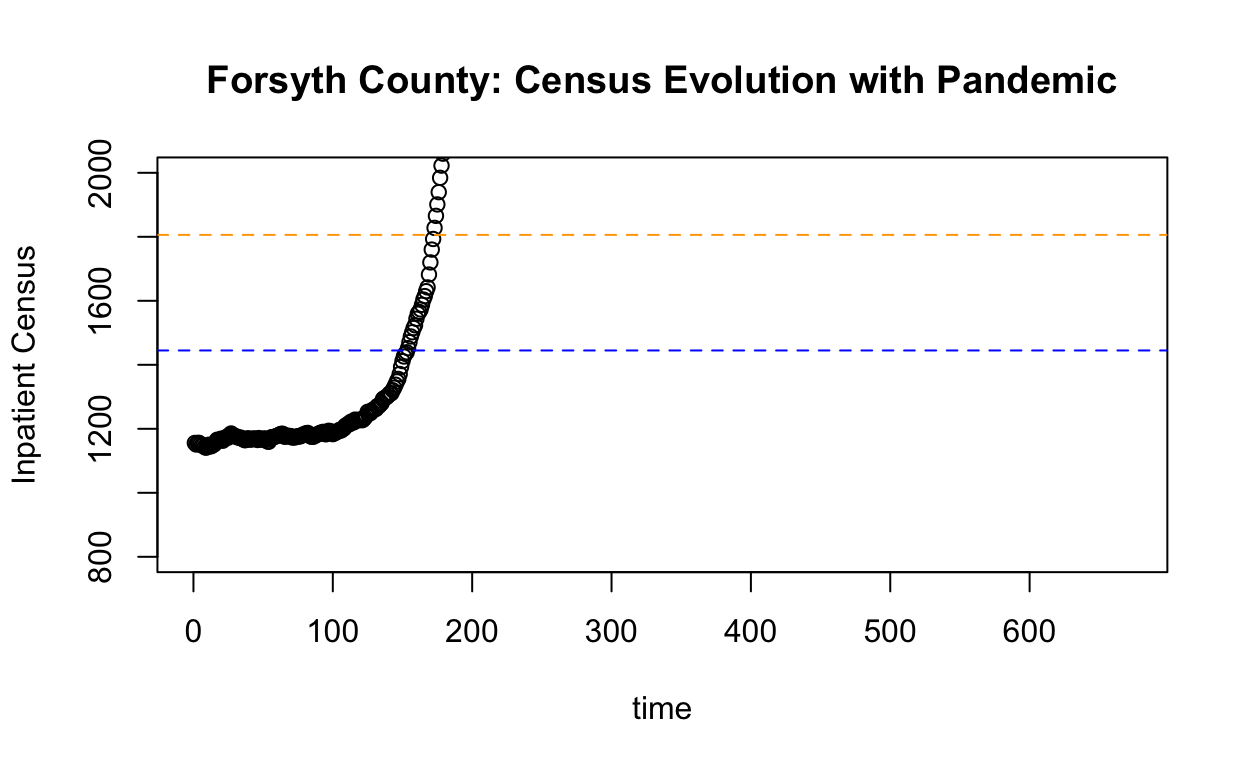
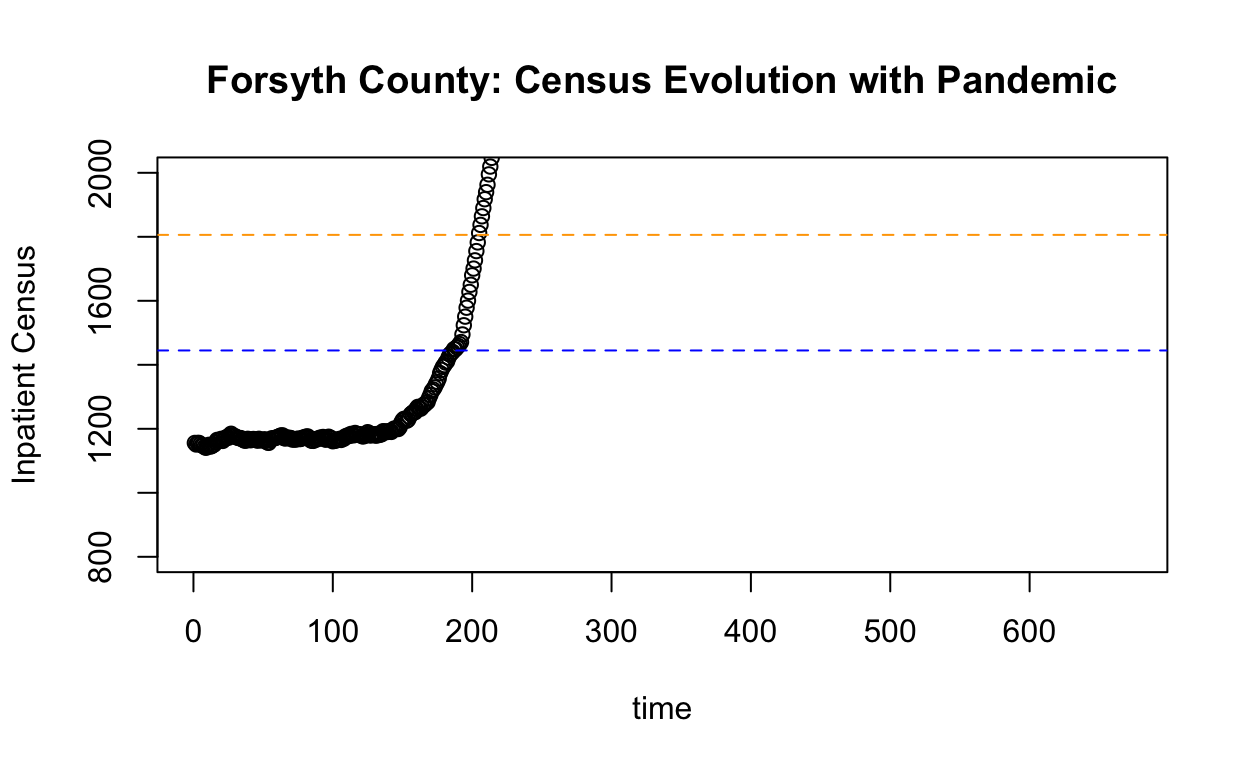
updated hospitilization rate

Changed region(s): [[0.2188, 0.1875, 0.4062, 0.5938]]

diff --git a/_posts/2020-03-13-flatten-the-curve/flatten-the-curve.html b/_posts/2020-03-13-flatten-the-curve/flatten-the-curve.html
@@ -1110,7 +1110,7 @@ Figure 3: Hospital Census No Pandemic
 <p>Now we can our above pandemic simulation. Let’s also assume that each patient stays for 7 days. This means that we admit patients for seven days before they are discharged.</p>
 <div class="layout-chunk" data-layout="l-body">
 <pre class="r"><code>
-hospitalization_rate &lt;- .2
+hospitalization_rate &lt;- .05
 covid_discharges &lt;- rep(lag(results$avg, 
                             n = 7, default = 0)/24, 
                         each = 24)*hospitalization_rate
@@ -1127,7 +1127,7 @@ for(i in 2:horizon_t){
 
 saturation &lt;- round(which(queue_pan&gt;n_beds)[1]/24)</code></pre>
 </div>
-<p>We can see very quickly that saturates the healthcare system (actually the number patients outnumbers the number of beds available by day 7).</p>
+<p>We can see very quickly that saturates the healthcare system (actually the number patients outnumbers the number of beds available by day 9).</p>
 <div class="layout-chunk" data-layout="l-body-outset">
 <pre class="r"><code>
 plot(queue_pan, ylim= c(800, 2000), 
@@ -1146,7 +1146,7 @@ Figure 4: Hospital Census With Uncontrolled Pandemic
 <p>Now here is where it is important to flatten the curve. If we can lower the reproductive rate through the normal pathways: hand washing, social distancing, etc, we can see we will still have an issue:</p>
 <div class="layout-chunk" data-layout="l-body">
 <pre class="r"><code>
-hospitalization_rate &lt;- .2
+hospitalization_rate &lt;- .05
 covid_discharges &lt;- rep(lag(results_abetment$avg, 
                             n = 7, default = 0)/24, 
                         each = 24)*hospitalization_rate
@@ -1164,7 +1164,7 @@ for(i in 2:horizon_t){
 
 saturation &lt;- round(which(queue_pan&gt;n_beds)[1]/24)</code></pre>
 </div>
-<p>We can see that we still saturate the system by day 12, but at least we have a few more days. In reality, all of these models are approximations</p>
+<p>We can see that we still saturate the system by day 15, but at least we have a few more days. In reality, all of these models are approximations</p>
 <div class="layout-chunk" data-layout="l-body-outset">
 <pre class="r"><code>
 plot(queue_pan, ylim= c(800, 2000), 

diff --git a/docs/posts/2020-03-13-flatten-the-curve/index.html b/docs/posts/2020-03-13-flatten-the-curve/index.html
@@ -1488,7 +1488,7 @@ Figure 3: Hospital Census No Pandemic
 <p>Now we can our above pandemic simulation. Let’s also assume that each patient stays for 7 days. This means that we admit patients for seven days before they are discharged.</p>
 <div class="layout-chunk" data-layout="l-body">
 <pre class="r"><code>
-hospitalization_rate &lt;- .2
+hospitalization_rate &lt;- .05
 covid_discharges &lt;- rep(lag(results$avg, 
                             n = 7, default = 0)/24, 
                         each = 24)*hospitalization_rate
@@ -1505,7 +1505,7 @@ for(i in 2:horizon_t){
 
 saturation &lt;- round(which(queue_pan&gt;n_beds)[1]/24)</code></pre>
 </div>
-<p>We can see very quickly that saturates the healthcare system (actually the number patients outnumbers the number of beds available by day 7).</p>
+<p>We can see very quickly that saturates the healthcare system (actually the number patients outnumbers the number of beds available by day 9).</p>
 <div class="layout-chunk" data-layout="l-body-outset">
 <pre class="r"><code>
 plot(queue_pan, ylim= c(800, 2000), 
@@ -1524,7 +1524,7 @@ Figure 4: Hospital Census With Uncontrolled Pandemic
 <p>Now here is where it is important to flatten the curve. If we can lower the reproductive rate through the normal pathways: hand washing, social distancing, etc, we can see we will still have an issue:</p>
 <div class="layout-chunk" data-layout="l-body">
 <pre class="r"><code>
-hospitalization_rate &lt;- .2
+hospitalization_rate &lt;- .05
 covid_discharges &lt;- rep(lag(results_abetment$avg, 
                             n = 7, default = 0)/24, 
                         each = 24)*hospitalization_rate
@@ -1542,7 +1542,7 @@ for(i in 2:horizon_t){
 
 saturation &lt;- round(which(queue_pan&gt;n_beds)[1]/24)</code></pre>
 </div>
-<p>We can see that we still saturate the system by day 12, but at least we have a few more days. In reality, all of these models are approximations</p>
+<p>We can see that we still saturate the system by day 15, but at least we have a few more days. In reality, all of these models are approximations</p>
 <div class="layout-chunk" data-layout="l-body-outset">
 <pre class="r"><code>
 plot(queue_pan, ylim= c(800, 2000), 
